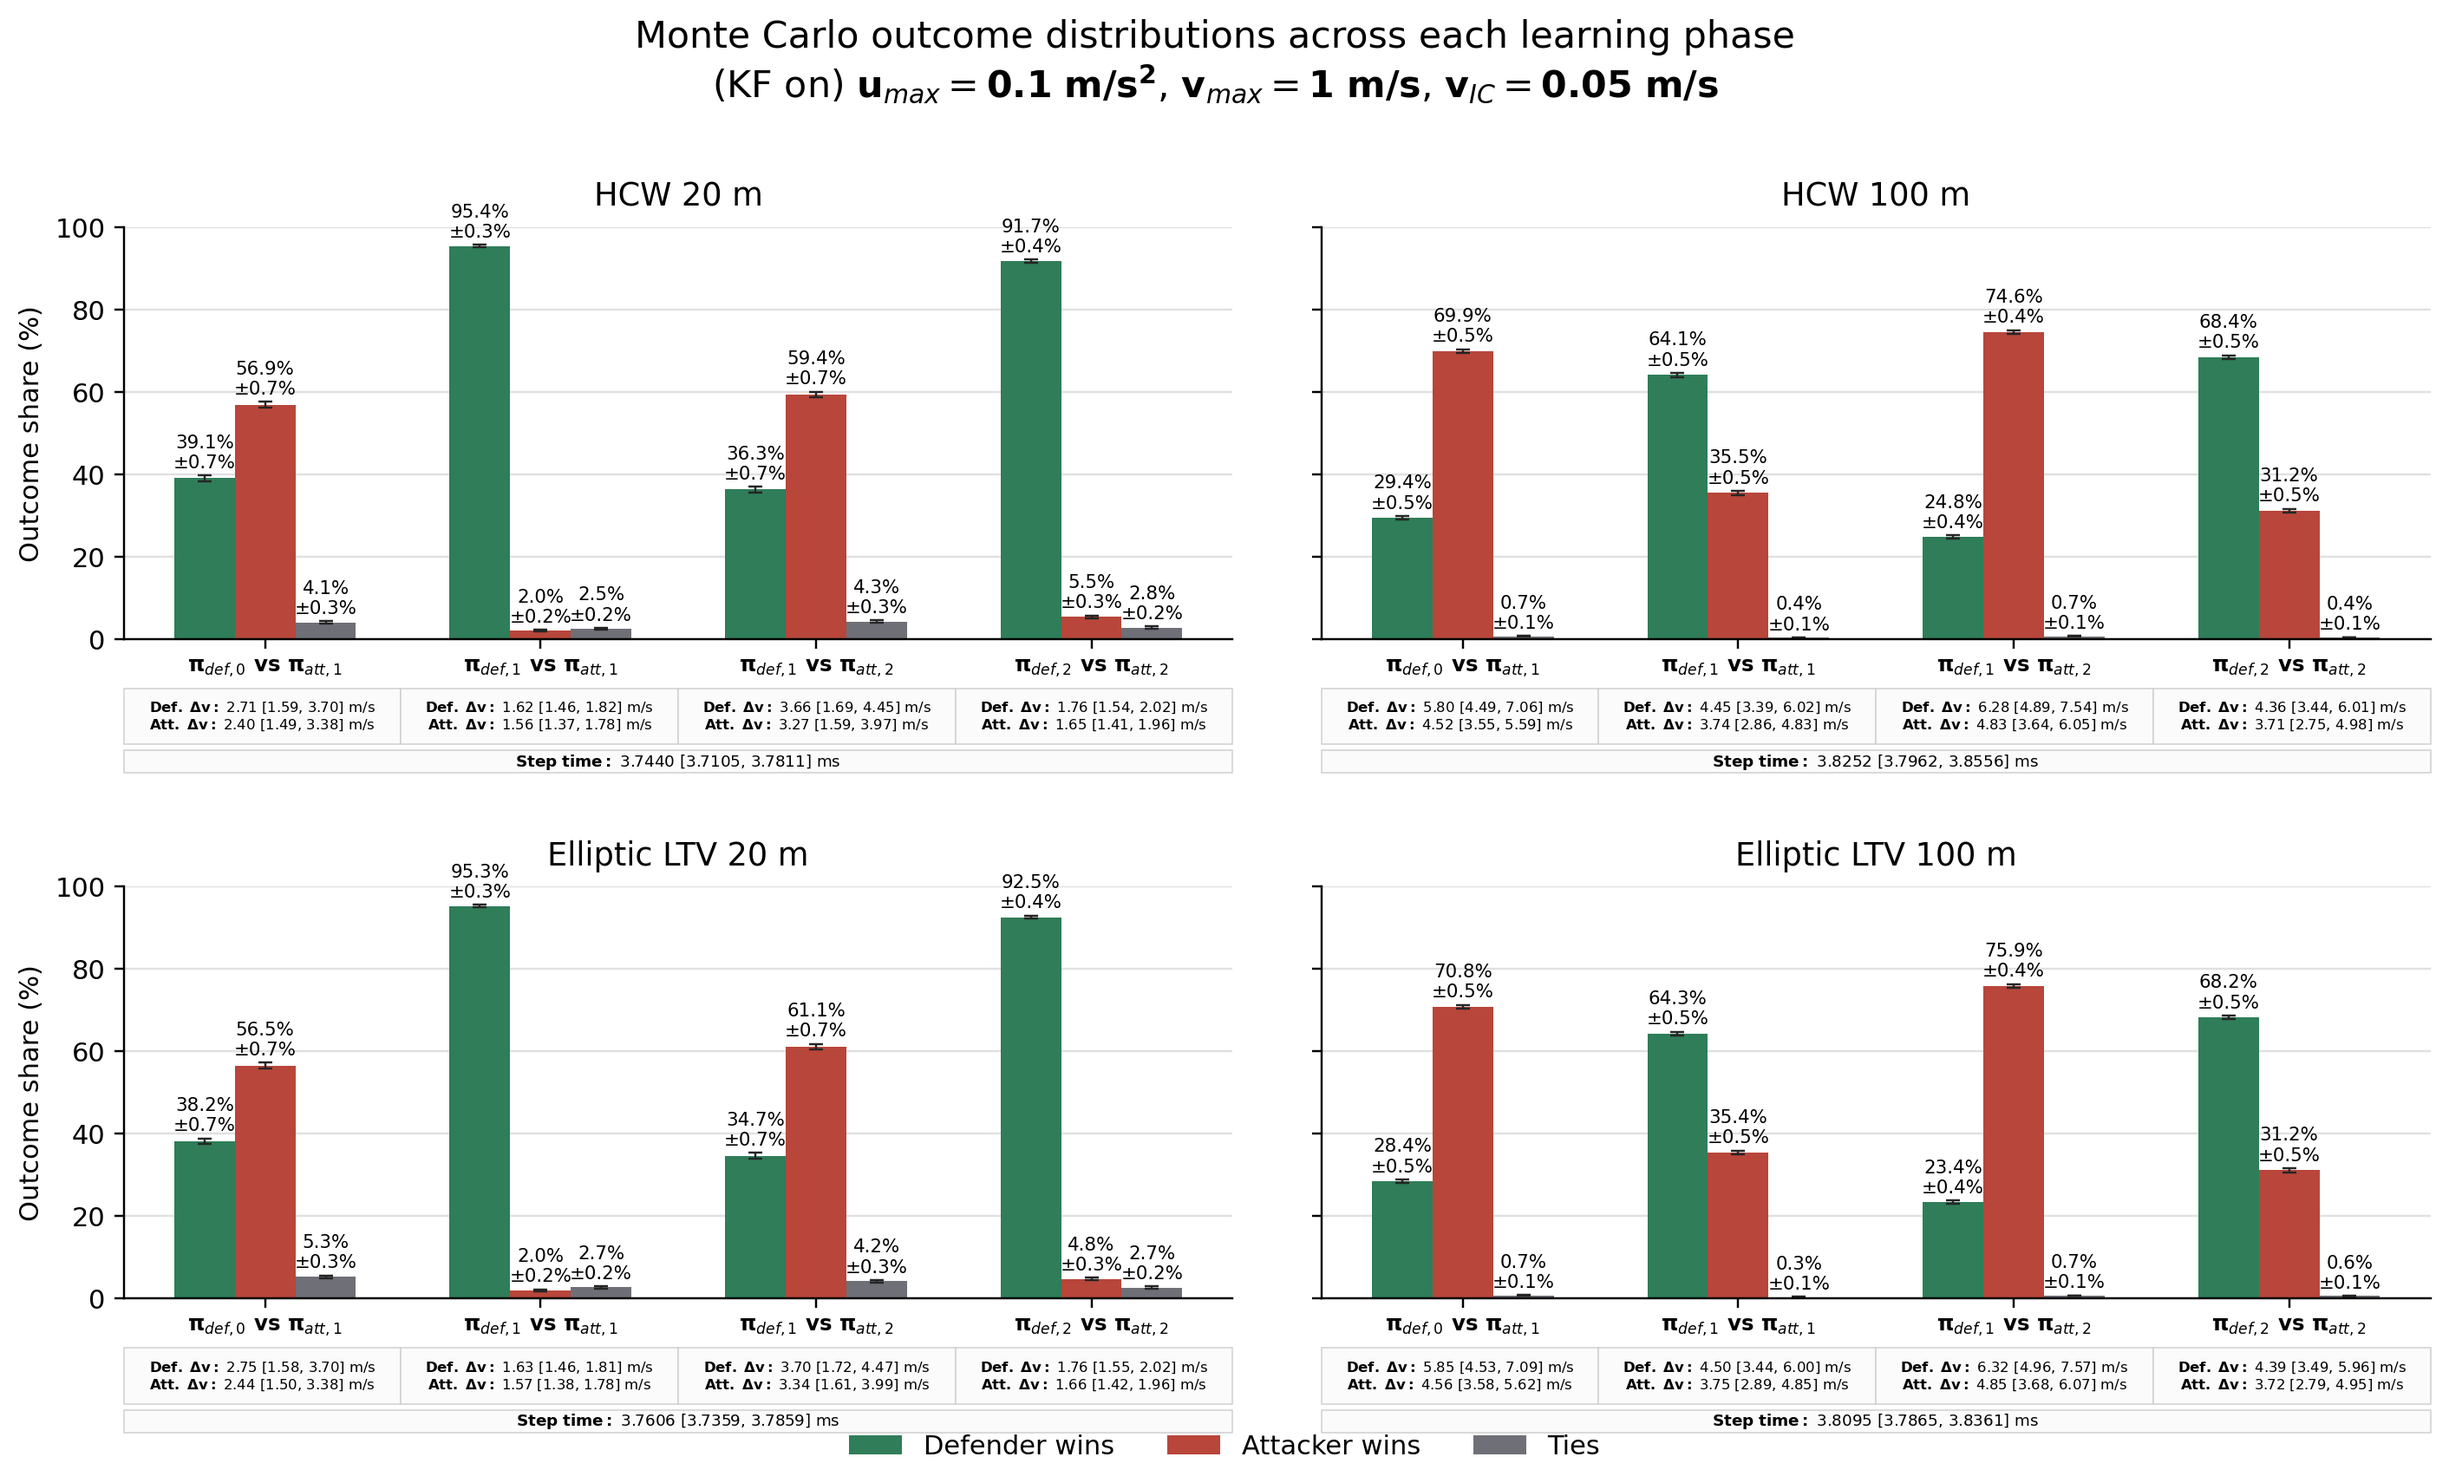
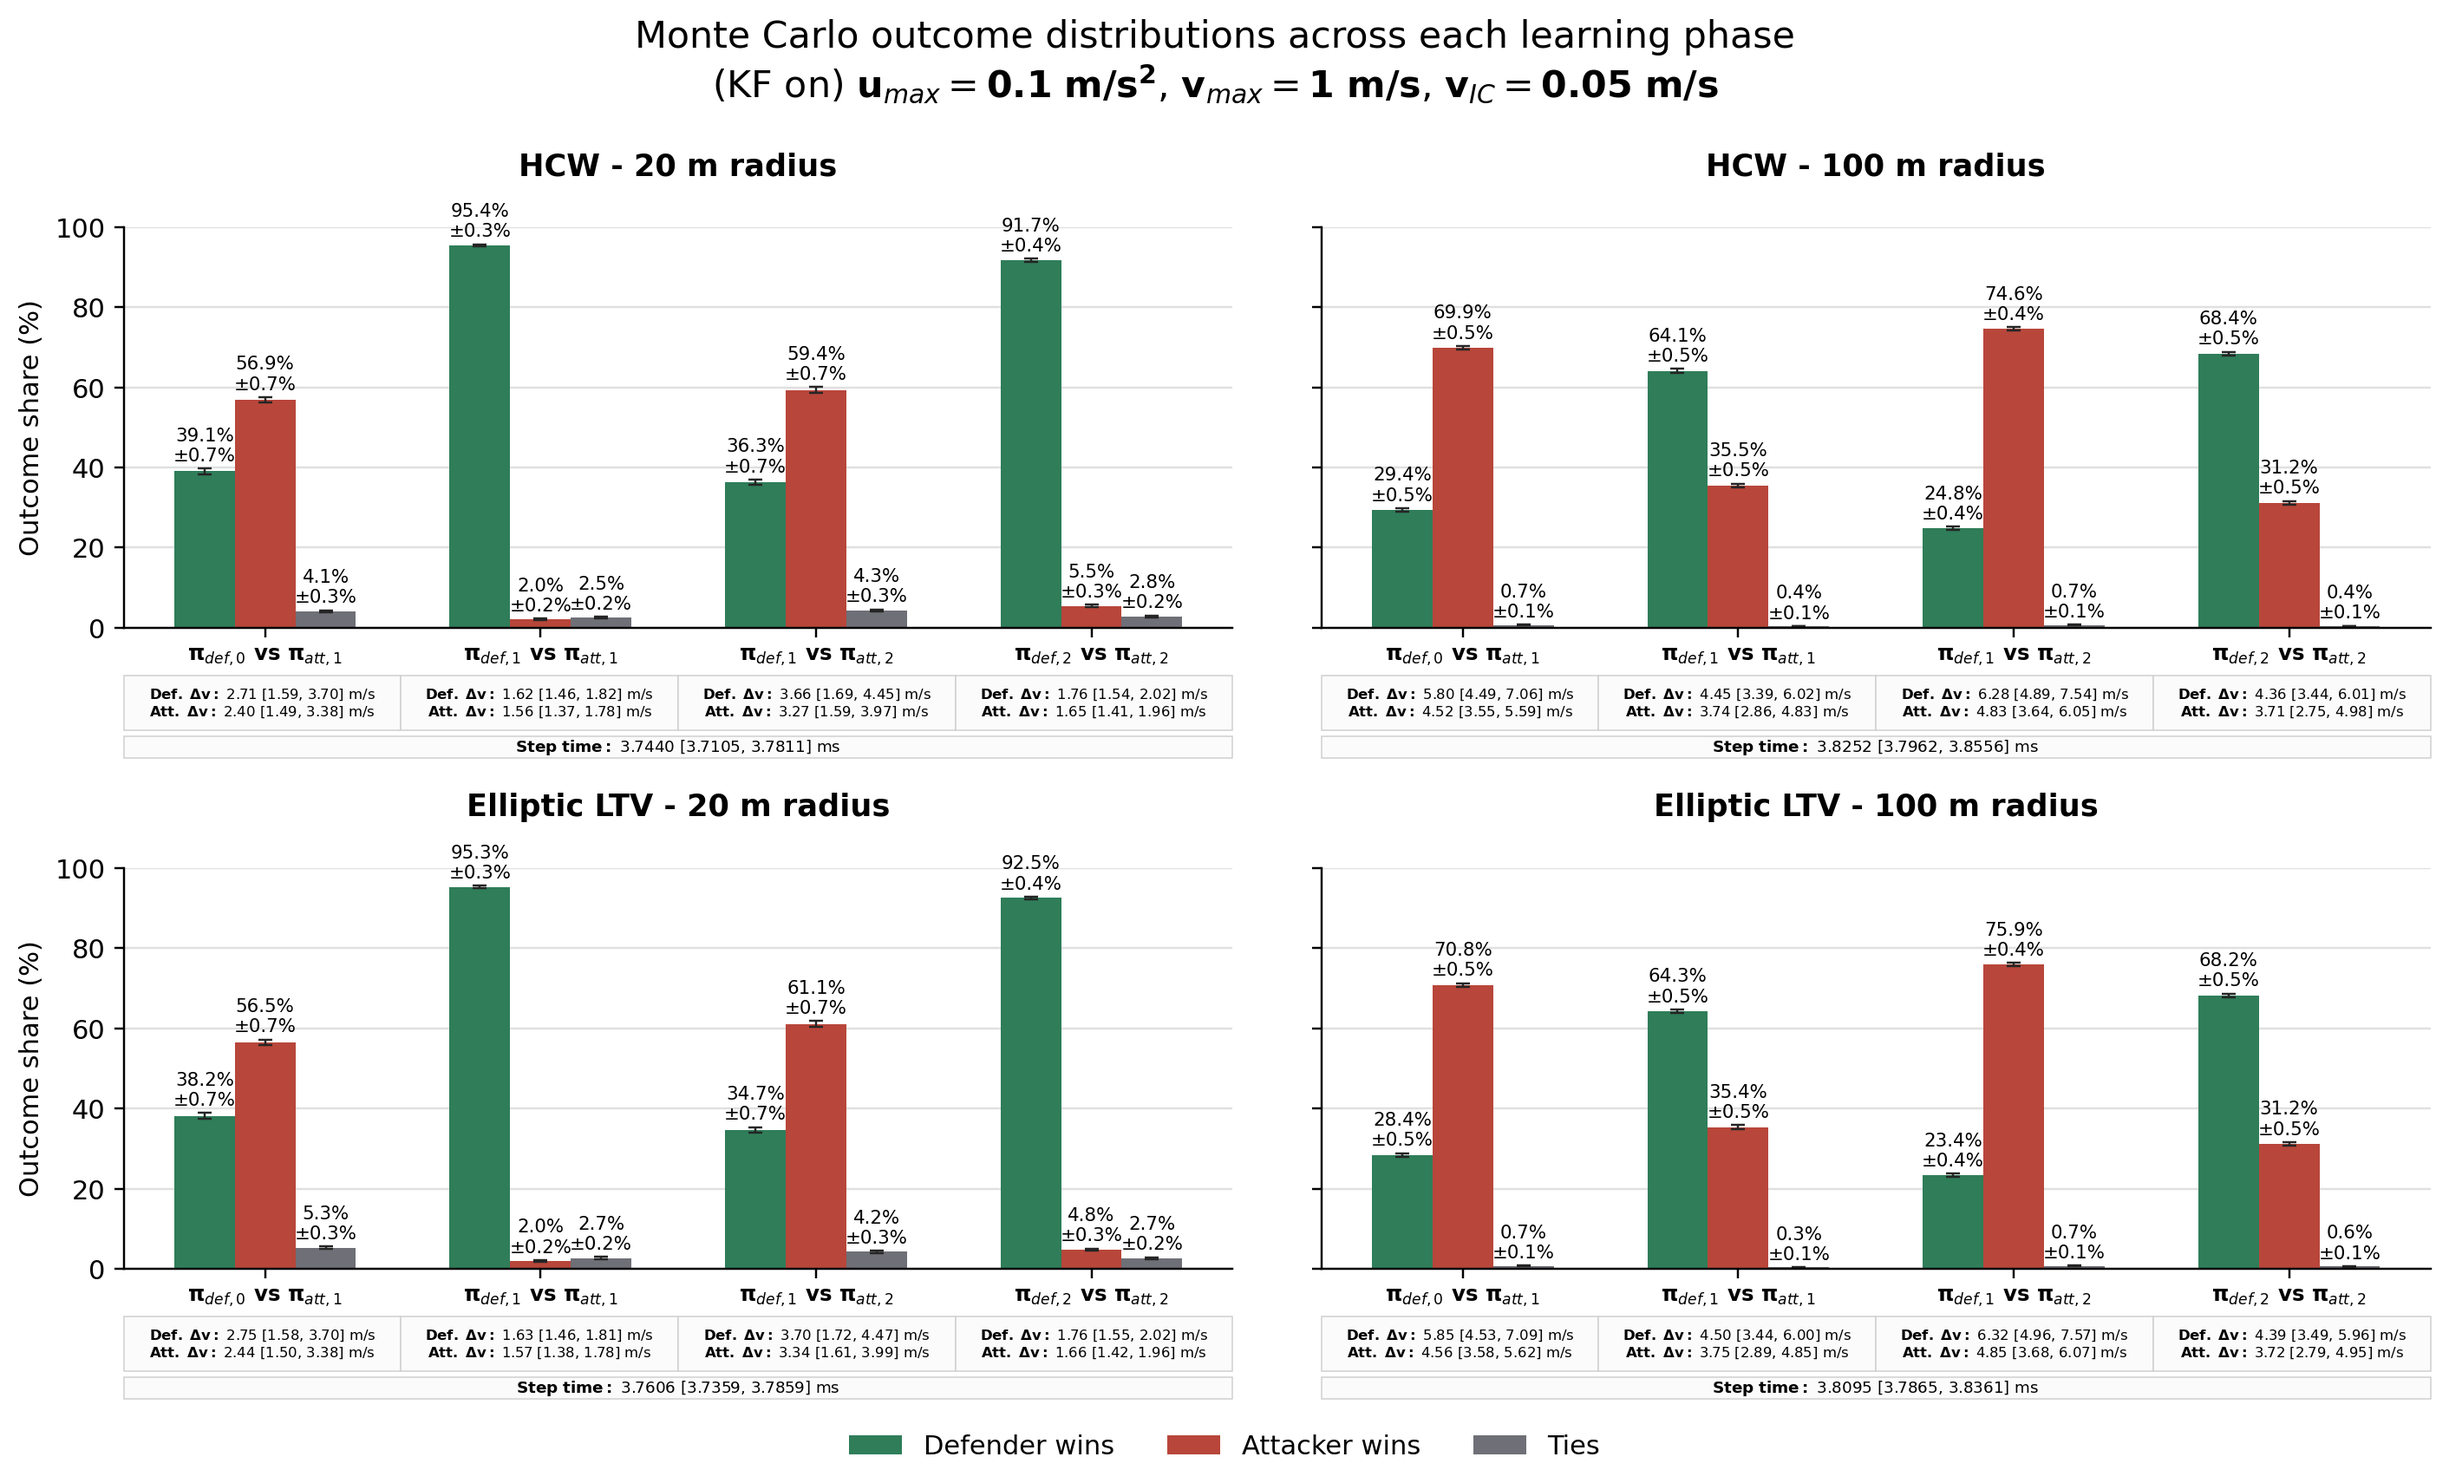
More changes to histogrmams. Might rerun a training

diff --git a/LaTeX_Tables/generate_outcome_distribution_histograms.py b/LaTeX_Tables/generate_outcome_distribution_histograms.py
@@ -39,10 +39,10 @@ POLICIES = (
 )
 
 TEST_CASES = (
-    ("HCW 20 m", "MC_eval_20m"),
-    ("HCW 100 m", "MC_eval_100m"),
-    ("Elliptic LTV 20 m", "MC_eval_20m_elliptic_ltv"),
-    ("Elliptic LTV 100 m", "MC_eval_100m_elliptic_ltv"),
+    ("HCW - 20 m radius", "MC_eval_20m"),
+    ("HCW - 100 m radius", "MC_eval_100m"),
+    ("Elliptic LTV - 20 m radius", "MC_eval_20m_elliptic_ltv"),
+    ("Elliptic LTV - 100 m radius", "MC_eval_100m_elliptic_ltv"),
 )
 
 MATCHUPS = (
@@ -249,6 +249,10 @@ def add_step_time_table(ax, stats: MetricStats) -> None:
         cell.set_facecolor("#fbfbfb")
 
 
+def set_case_title(ax, case_label: str) -> None:
+    ax.set_title(case_label, fontsize=11.5, fontweight="bold", y=1.13, pad=0)
+
+
 def add_phase_delta_v_table(ax, stats_by_phase: List[MetricStats]) -> None:
     cells = [[format_phase_delta_v_cell(stats) for stats in stats_by_phase]]
     table = ax.table(
@@ -371,7 +375,7 @@ def plot_histogram(repo_root: Path, out_dir: Path, use_kf: bool) -> Path:
                     color="#555555",
                 )
 
-        ax.set_title(case_label, fontsize=12, pad=8)
+        set_case_title(ax, case_label)
         ax.set_xticks(x)
         ax.set_xticklabels([label for _, label in POLICIES], fontsize=8)
         for tick in ax.get_xticklabels():
@@ -385,12 +389,27 @@ def plot_histogram(repo_root: Path, out_dir: Path, use_kf: bool) -> Path:
     axes[0].set_ylabel("Outcome share (%)")
     axes[2].set_ylabel("Outcome share (%)")
     handles, labels = axes[0].get_legend_handles_labels()
-    fig.legend(handles, labels, loc="lower center", ncol=3, frameon=False)
+    fig.legend(
+        handles,
+        labels,
+        loc="lower center",
+        bbox_to_anchor=(0.5, 0.012),
+        ncol=3,
+        frameon=False,
+    )
     fig.suptitle(
         f"Monte Carlo aggregate outcome distributions across four learning phases ({state_label})",
         fontsize=15,
+        y=0.985,
     )
-    fig.tight_layout(rect=(0.0, 0.07, 1.0, 0.95))
+    fig.subplots_adjust(
+        left=0.06,
+        right=0.99,
+        top=0.86,
+        bottom=0.12,
+        hspace=0.47,
+        wspace=0.08,
+    )
     fig.savefig(output_path, dpi=220)
     plt.close(fig)
     return output_path
@@ -478,7 +497,7 @@ def plot_policy_phase_histogram(
                     rotation=90,
                 )
 
-        ax.set_title(case_label, fontsize=12, pad=8)
+        set_case_title(ax, case_label)
         ax.set_xticks(x)
         ax.set_xticklabels([label for _, label in MATCHUPS], fontsize=8)
         for tick in ax.get_xticklabels():
@@ -504,7 +523,7 @@ def plot_policy_phase_histogram(
         left=0.06,
         right=0.99,
         top=0.84,
-        bottom=0.12,
+        bottom=0.14,
         hspace=0.60,
         wspace=0.08,
     )
